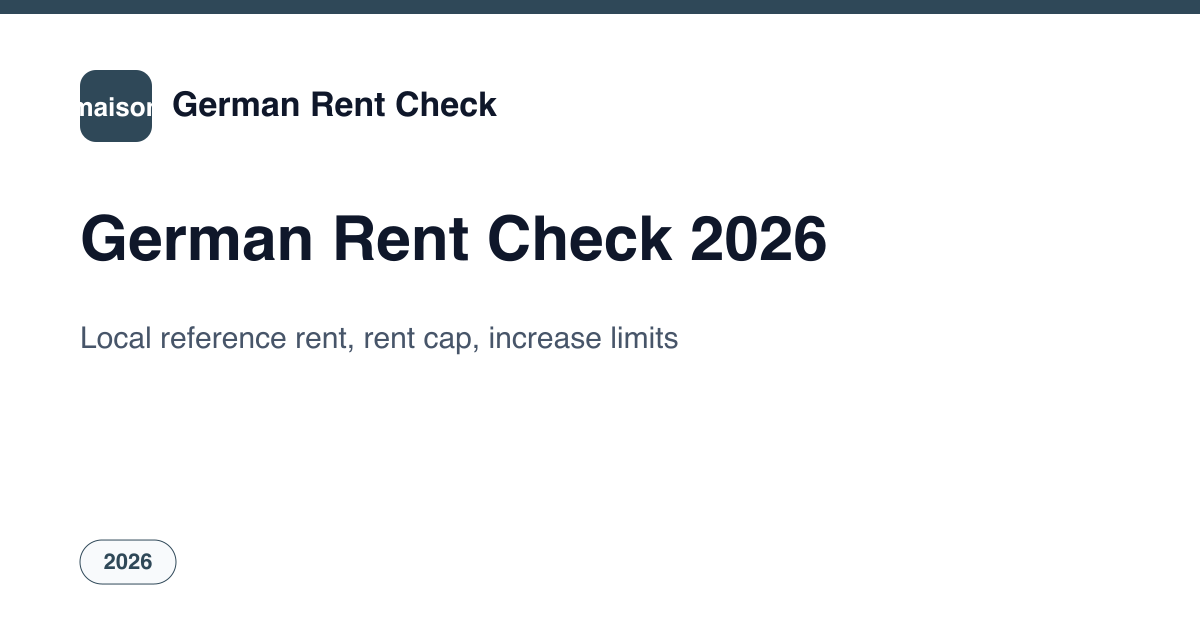
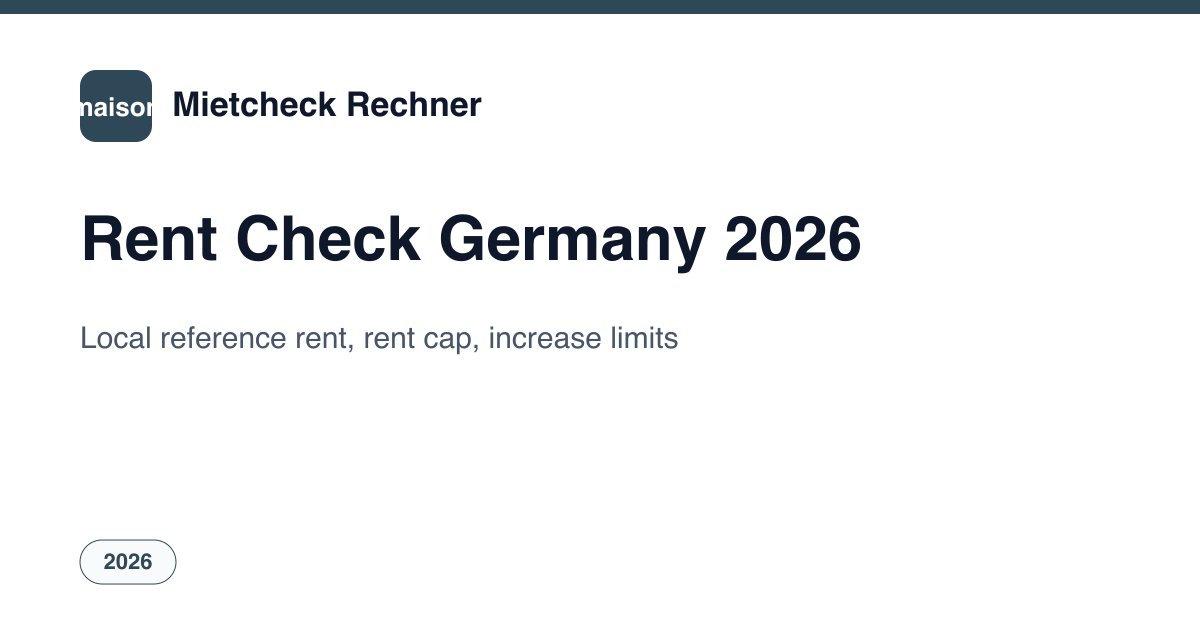
Nom du site : Mietcheck Rechner (les mots du domaine, Rechner en couleur) au lieu de « Mietspiegel-Rechner » / « German Rent Check », le même en allemand et en anglais : en-tête, nom pour Google, manifeste, llms.txt, page Über uns, images de partage

Changed region(s): [[0.0617, 0.3317, 0.74, 0.4524], [0.1233, 0.1206, 0.4317, 0.2111]]

diff --git a/src/data/site-config.ts b/src/data/site-config.ts
@@ -1,6 +1,8 @@
 /** Configuration centrale du site (générée par new-site.py). */
 export const SITE_URL = "https://mietcheck-rechner.de";
-export const SITE_NAMES: Record<string, string> = {"de": "Mietspiegel-Rechner", "en": "German Rent Check"};
+// Partie du nom en couleur dans l'en-tete ('' = aucune).
+export const BRAND_ACCENT = 'Rechner';
+export const SITE_NAMES: Record<string, string> = {"de": "Mietcheck Rechner", "en": "Mietcheck Rechner"};
 export const LANG_TAGS: Record<string, string> = {"de": "de-DE", "en": "en-DE"};
 export const OG_LOCALES: Record<string, string> = {"de": "de_DE", "en": "en_GB"};
 export const LOCALE_TAG = 'de-DE';

diff --git a/CONTRIBUTING-SEITEN.md b/CONTRIBUTING-SEITEN.md
@@ -1,4 +1,4 @@
-# Ajouter ou étoffer une page du Mietspiegel-Rechner
+# Ajouter ou étoffer une page du Mietcheck Rechner
 
 Notice pour les agents qui prolongent le site. À lire en entier, avec `~/Documents/GitHub/RECETTE-SITE.md` §0, §3, §6, §7, §9.3, §11, §21, §26.
 
